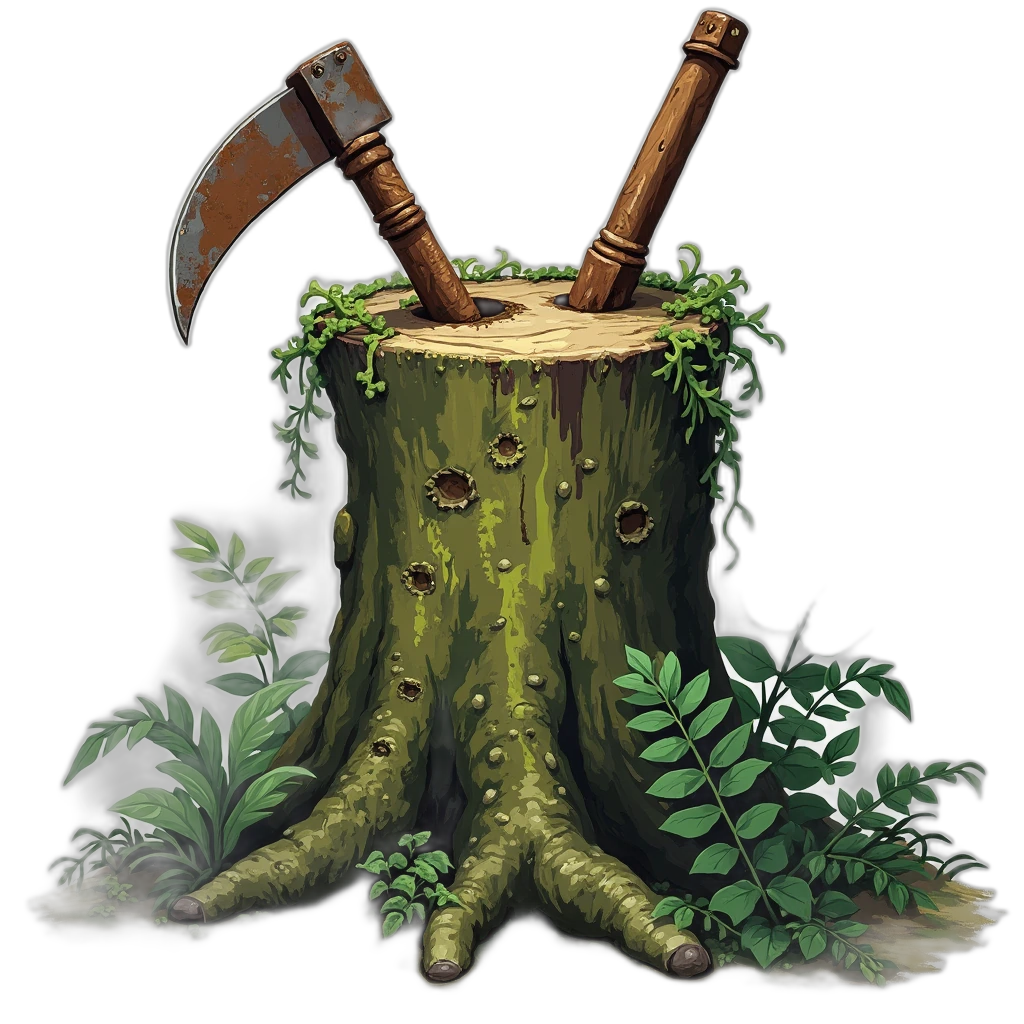
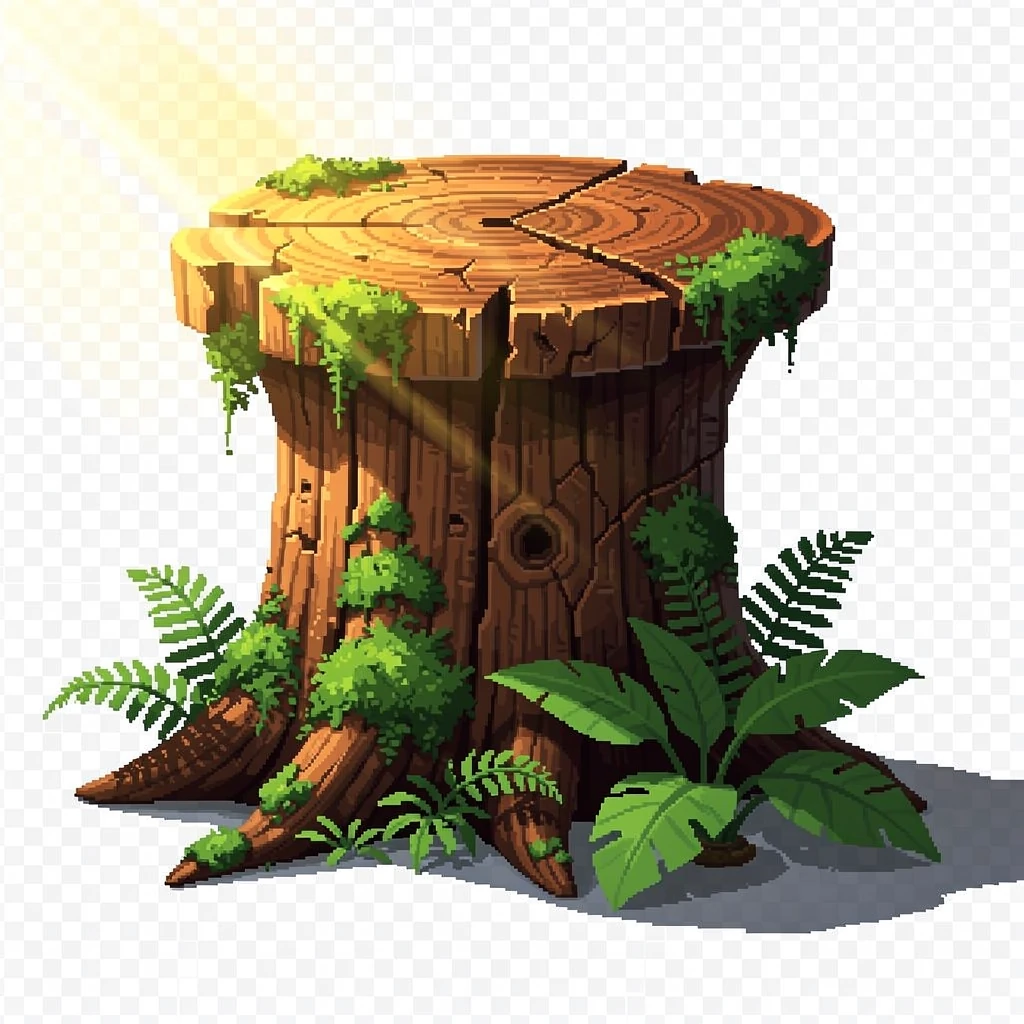
Convert game art to hi-bit pixel art style
- Update generate_art.py prompts for hi-bit cinematic pixel art
  (Killer Rabbit Media / Metal Slug / Legend of Mana style)
- Regenerate all backgrounds: title-screen, forest, village
- Regenerate interactive objects: stump, vines, flower, machete-stump
- Set pixelArt: true in Phaser config for crisp pixel rendering
- Convert WebP outputs to PNG format

Style references: Garou Mark of the Wolves, Symphony of the Night,
Metal Slug, Legend of Mana, Princess Crown

diff --git a/src/main.ts b/src/main.ts
@@ -10,7 +10,7 @@ const config: Phaser.Types.Core.GameConfig = {
   width: 1280,
   height: 720,
   parent: 'game-container',
-  pixelArt: false, // Smooth scaling for painted art style
+  pixelArt: true, // Crisp nearest-neighbor scaling for pixel art
   scale: {
     mode: Phaser.Scale.FIT,
     autoCenter: Phaser.Scale.CENTER_BOTH,

diff --git a/scripts/generate_art.py b/scripts/generate_art.py
@@ -35,58 +35,61 @@ CHARACTERS_DIR = IMAGES_DIR / "characters"
 BACKGROUNDS_DIR = IMAGES_DIR / "backgrounds"
 OBJECTS_DIR = IMAGES_DIR / "objects"
 
-# Character prompts (King's Quest V/Monkey Island 2 style)
+# Hi-bit pixel art prompts (Killer Rabbit Media style)
 PROMPTS = {
-    "tarzan": """Video game character sprite of Tarzan, a heroic jungle man. Athletic muscular man in his late 20s with wild untamed dark hair and confident determined expression. He wears simple jungle attire - a loincloth or tattered shorts, bare chest showing defined muscles, bare feet. Tanned skin from living in the jungle. Standing in a confident heroic pose, ready for adventure. Full body view, dynamic pose showing strength and agility. Style: Smooth polished Disney-style cartoon art, clean lines, soft shading and highlights, vibrant saturated colors. Similar to Disney's Tarzan movie or modern mobile game character art. Professional video game character sprite, high quality render, clean cartoon style with no rough edges or sketchy lines. Isolated character on plain solid color background for easy extraction.""",
+    "title-screen": """Hi-bit pixel art title screen for a jungle adventure game. Epic cinematic composition showing a dramatic Brazilian rainforest at sunset. Silhouette of a heroic Tarzan-like figure standing on a cliff or tree branch overlooking the vast jungle canopy. Golden orange sunset sky with rich color gradients using detailed dithering. Deep jungle stretching to the horizon with atmospheric depth and haze. Moody, cinematic lighting with god rays filtering through clouds. Style: Modern hi-bit pixel art like Killer Rabbit Media or Superbrothers. NOT retro 8-bit - this is professional illustration-quality pixel art with visible but refined pixels, smooth dithered gradients, atmospheric lighting, cinematic mood. Rich color palette, detailed shading. 16:9 widescreen composition.""",
 
-    "tank": """Video game character art of Tank, a heroic female martial artist. Athletic muscular woman in her late 20s with confident determined expression. She wears a weathered red sleeveless martial arts gi top with black belt, dark cargo pants, wrapped forearms, practical combat boots. Dark hair pulled back in a ponytail. Strong arms showing defined muscles. Standing in a confident martial arts ready stance with fists raised. Full body view, dynamic pose showing she's ready for action. Style: Hand-painted 1990s adventure game art like King's Quest V, Monkey Island 2. Rich saturated colors, detailed painterly brushwork, warm dramatic lighting. Professional video game character illustration, high detail, expressive.""",
+    "tarzan": """Hi-bit pixel art character sprite of Tarzan, a heroic jungle man. Athletic muscular man with wild dark hair, confident pose. Simple jungle attire - loincloth, bare chest, bare feet. Tanned skin. Standing heroic pose ready for adventure. Full body view. Style: Modern hi-bit pixel art with visible but refined pixels. Rich colors, detailed shading with dithering, NOT retro 8-bit. Professional quality like modern indie games. Isolated on transparent background.""",
 
-    "pig": """Video game character art of a cartoon pig sidekick wearing cowboy gear. Pink pig standing semi-upright on hind legs. Wearing a worn brown leather cowboy hat tilted rakishly, red bandana around neck, small leather vest. Front hooves on hips in confident pose. Friendly expressive face with a knowing smirk and warm eyes. He's a loyal companion with personality and Western charm. Full body character design. Style: Hand-painted 1990s adventure game art like King's Quest, Monkey Island. Warm colors, detailed but charming cartoon style, personality-filled character design.""",
+    "tank": """Hi-bit pixel art character of Tank, heroic female martial artist. Athletic woman in red martial arts gi with black belt, dark cargo pants, ponytail. Confident fighting stance. Full body view. Style: Modern hi-bit pixel art, visible refined pixels, rich shading, professional quality. Transparent background.""",
 
-    "deer": """Video game character art of Mr. Snuggles, a friendly deer companion. Young white-tailed deer with gentle kind eyes and sweet trusting expression. Small velvet antlers, soft brown fur with white spots on back. Standing in relaxed pose, head slightly tilted as if listening. Looks approachable and loyal, like a gentle forest friend. Cuddly and friendly appearance matching his name. Full body view in forest lighting. Style: Hand-painted 1990s Sierra adventure game art like King's Quest. Naturalistic but expressive, warm forest lighting, detailed fur texture.""",
+    "pig": """Hi-bit pixel art character of a cartoon pig sidekick in cowboy gear. Pink pig standing on hind legs, brown cowboy hat, red bandana, leather vest. Friendly smirk, charming personality. Full body. Style: Modern hi-bit pixel art with detailed shading, refined pixels, warm colors. Transparent background.""",
 
-    "forest": """Video game background scene of a lush Brazilian rainforest. Dense jungle with towering trees, thick canopy filtering golden afternoon sunlight. Tropical flowers, giant ferns, and hanging vines. A small dirt clearing with a path leading deeper into the jungle. Colorful parrots in the trees, butterflies floating in sunbeams. Rich emerald greens, golden light rays, humid atmospheric depth. Style: 1990s Sierra adventure game background art like King's Quest V or VI. Hand-painted look, detailed foliage, atmospheric perspective. Widescreen game scene composition with clear walkable foreground area.""",
+    "deer": """Hi-bit pixel art character of Mr. Snuggles, a friendly deer companion. Young deer with gentle eyes, small antlers, brown fur with white spots. Relaxed friendly pose. Full body. Style: Modern hi-bit pixel art, refined pixels, warm natural lighting, detailed fur texture. Transparent background.""",
 
-    "forest-interactive": """Video game background scene of a Brazilian rainforest clearing with interactive elements.
+    "forest": """Hi-bit pixel art scene of a lush Brazilian rainforest. Dense jungle with towering trees, thick canopy filtering golden afternoon sunlight through gaps. Tropical flowers, giant ferns, hanging vines. Small dirt clearing with path leading deeper into jungle. Rich emerald greens, golden light rays piercing through, humid atmospheric depth with layered fog. Style: Modern hi-bit pixel art like Killer Rabbit Media. NOT retro 8-bit - professional illustration-quality pixel art with visible refined pixels, smooth dithered color gradients, atmospheric lighting, cinematic depth. Rich saturated colors, moody jungle atmosphere. 16:9 widescreen game background.""",
 
-    LEFT SIDE: A striking bright red exotic flower on a tall stem, clearly visible and pickable, growing among ferns.
+    "forest-interactive": """Hi-bit pixel art scene of Brazilian rainforest clearing with interactive game elements.
 
-    CENTER-RIGHT FOREGROUND: An old weathered tree stump, mossy and about waist-height. The stump is EMPTY - no machete or tools in it, just an old cut tree stump with moss and wood grain visible on top.
+    LEFT SIDE: Striking bright red exotic flower on tall stem, clearly visible and pickable among ferns.
 
-    RIGHT SIDE: Thick tangled jungle vines hanging down like a curtain, blocking a narrow dirt path that leads deeper into the jungle. The vines are dense and clearly impassable without cutting.
+    CENTER-RIGHT FOREGROUND: Old weathered tree stump, mossy, waist-height. Stump is EMPTY - no machete, just old cut stump with moss and wood grain.
 
-    The clearing has a dirt floor with tropical plants. Golden afternoon sunlight filters through the canopy. Dense jungle trees in the background.
+    RIGHT SIDE: Thick tangled jungle vines hanging like curtain, blocking narrow path. Dense and impassable without cutting.
 
-    Style: Hand-painted 1990s Sierra adventure game background like King's Quest V or Monkey Island 2. Rich saturated colors, detailed painterly look, atmospheric perspective. Widescreen game scene, 16:9 aspect ratio composition. The interactive elements (flower, empty stump, vines) should be clearly visible and distinct from the background.""",
+    Dirt floor clearing with tropical plants. Golden afternoon sunlight through canopy. Dense jungle background.
 
-    "group": """Three adventure game characters standing together as a team: Tank (athletic muscular woman in red martial arts gi with black belt, confident heroic pose, dark ponytail), a pink pig wearing cowboy hat and red bandana standing on hind legs with charming smirk, and Mr. Snuggles the deer with small antlers and gentle kind eyes. They stand together in a forest clearing as companions ready for adventure. Warm golden sunlight filtering through trees behind them. Style: Hand-painted 1990s adventure game art like King's Quest or Monkey Island. Character group shot, rich colors, heroic and charming feeling.""",
+    Style: Modern hi-bit pixel art like Killer Rabbit Media. Professional illustration-quality with visible refined pixels, dithered gradients, atmospheric lighting. Interactive elements clearly visible and distinct. 16:9 widescreen composition.""",
 
-    # Interactive object sprites
-    "stump": """Video game object sprite of an old tree stump with a rusty machete stuck in it. Weathered moss-covered tree stump in a jungle setting. An old rusty machete blade is wedged into the top of the stump, handle sticking up invitingly. The stump is about waist-height, wide and solid. Tropical plants and ferns around the base. Object is clearly interactive and important. Isolated object on transparent or simple background. Style: Hand-painted 1990s Sierra adventure game art like King's Quest V. Detailed painterly texture, warm jungle lighting, game asset sprite.""",
+    "group": """Hi-bit pixel art group shot of adventure team: Tarzan (athletic jungle man), pink pig in cowboy gear, and Mr. Snuggles the deer. Standing together in forest clearing as companions. Warm golden sunlight filtering through trees. Style: Modern hi-bit pixel art, refined pixels, rich colors, heroic composition.""",
 
-    "vines": """Video game object sprite of thick jungle vines blocking a path. Dense tangled mass of green tropical vines hanging down and across, forming a natural barrier. Some vines have large leaves, others are woody and thick. Clearly too dense to push through without cutting. The vines span across like a curtain blocking passage. Isolated object on transparent or simple background. Style: Hand-painted 1990s Sierra adventure game art. Rich greens, detailed foliage texture, game obstacle sprite.""",
+    # Interactive object sprites - hi-bit style
+    "stump": """Hi-bit pixel art sprite of old jungle tree stump. Weathered moss-covered stump, waist-height, solid wood. Tropical plants at base. Clearly interactive game object. Style: Modern hi-bit pixel art with refined pixels, detailed texture, warm jungle lighting. Transparent background. NOT retro 8-bit.""",
 
-    "flower-sprite": """Video game object sprite of a beautiful exotic tropical flower. Single striking red flower with large vibrant petals, bright yellow center with visible stamens. Long green stem with a few leaves. The flower is eye-catching and clearly pickable. Rainforest orchid or heliconia style. Isolated object on transparent or simple background. Style: Hand-painted 1990s Sierra adventure game art like King's Quest. Vivid saturated colors, detailed botanical illustration style, collectible game item sprite.""",
+    "vines": """Hi-bit pixel art sprite of thick jungle vines blocking path. Dense tangled green vines hanging down forming natural barrier. Large leaves, woody thick vines. Impassable obstacle. Style: Modern hi-bit pixel art, refined pixels, rich greens, detailed foliage texture. Transparent background.""",
 
-    "machete-stump": """Video game sprite of a rusty machete blade stuck vertically in wood. The machete has a weathered brown wooden handle pointing straight up and a rusty gray metal blade wedged into a mossy tree stump. The handle is worn but sturdy, clearly meant to be grabbed. Just the machete and small portion of stump top visible - this is a close-up sprite to overlay on a background. Jungle adventure game item. Transparent background. Style: Hand-painted 1990s Sierra adventure game art like King's Quest V. Muted earth tones, rusty metal, worn wood texture. Game collectible sprite.""",
+    "flower-sprite": """Hi-bit pixel art sprite of exotic tropical flower. Single striking red flower with vibrant petals, yellow center, green stem with leaves. Eye-catching collectible item. Style: Modern hi-bit pixel art, refined pixels, vivid saturated colors, detailed botanical style. Transparent background.""",
 
-    "village": """Video game background scene of a small indigenous Brazilian village in a jungle clearing.
+    "machete-stump": """Hi-bit pixel art sprite of rusty machete stuck in tree stump. Weathered wooden handle pointing up, rusty metal blade wedged in mossy stump top. Interactive game item. Style: Modern hi-bit pixel art, refined pixels, muted earth tones, detailed texture. Transparent background.""",
 
-    Several thatched-roof huts made of wood and palm leaves arranged in a semi-circle. A central fire pit with smoke rising. Colorful woven blankets and pottery visible near the huts. Tropical plants and palm trees frame the scene.
+    "village": """Hi-bit pixel art scene of small indigenous Brazilian village in jungle clearing.
 
-    LEFT SIDE: A trading post area with a wooden table displaying various tools - stone axes, wooden bowls, woven baskets, and beaded jewelry laid out for trade.
+    Several thatched-roof huts of wood and palm leaves in semi-circle. Central fire pit with rising smoke and warm glow. Colorful woven blankets and pottery near huts. Tropical plants and palms framing scene.
 
-    CENTER: The main village clearing with packed dirt ground. A friendly indigenous trader standing near the trading table, wearing traditional clothing with feathers and beads.
+    LEFT: Trading post with wooden table displaying tools - stone axes, bowls, baskets, beaded jewelry.
 
-    RIGHT SIDE: A path leading back into the jungle (the way the player came from).
+    CENTER: Village clearing with packed dirt. Friendly indigenous trader near table in traditional clothing with feathers.
 
-    Warm afternoon sunlight filtering through the canopy. Peaceful, welcoming atmosphere. Parrots and monkeys visible in the trees.
+    RIGHT: Path leading back into jungle.
 
-    Style: Hand-painted 1990s Sierra adventure game background like King's Quest V or Monkey Island 2. Rich saturated colors, detailed painterly look, atmospheric perspective. Widescreen 16:9 game scene composition with clear walkable foreground area."""
+    Warm afternoon light through canopy. Peaceful welcoming atmosphere. Fire casting warm orange glow.
+
+    Style: Modern hi-bit pixel art like Killer Rabbit Media. Professional illustration-quality with visible refined pixels, smooth dithered gradients, atmospheric warm lighting, cinematic mood. Rich saturated colors. 16:9 widescreen composition."""
 }
 
 # Map asset types to output directories
 OUTPUT_DIRS = {
+    "title-screen": BACKGROUNDS_DIR,
     "tarzan": CHARACTERS_DIR,
     "tank": CHARACTERS_DIR,
     "pig": CHARACTERS_DIR,
